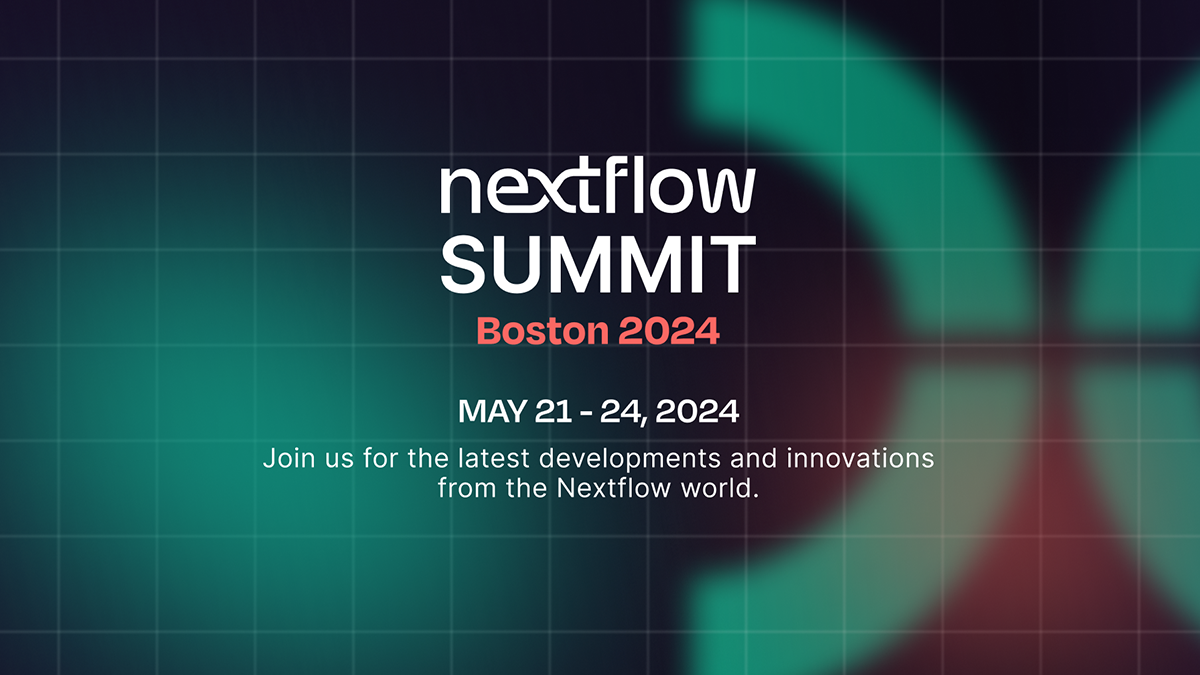
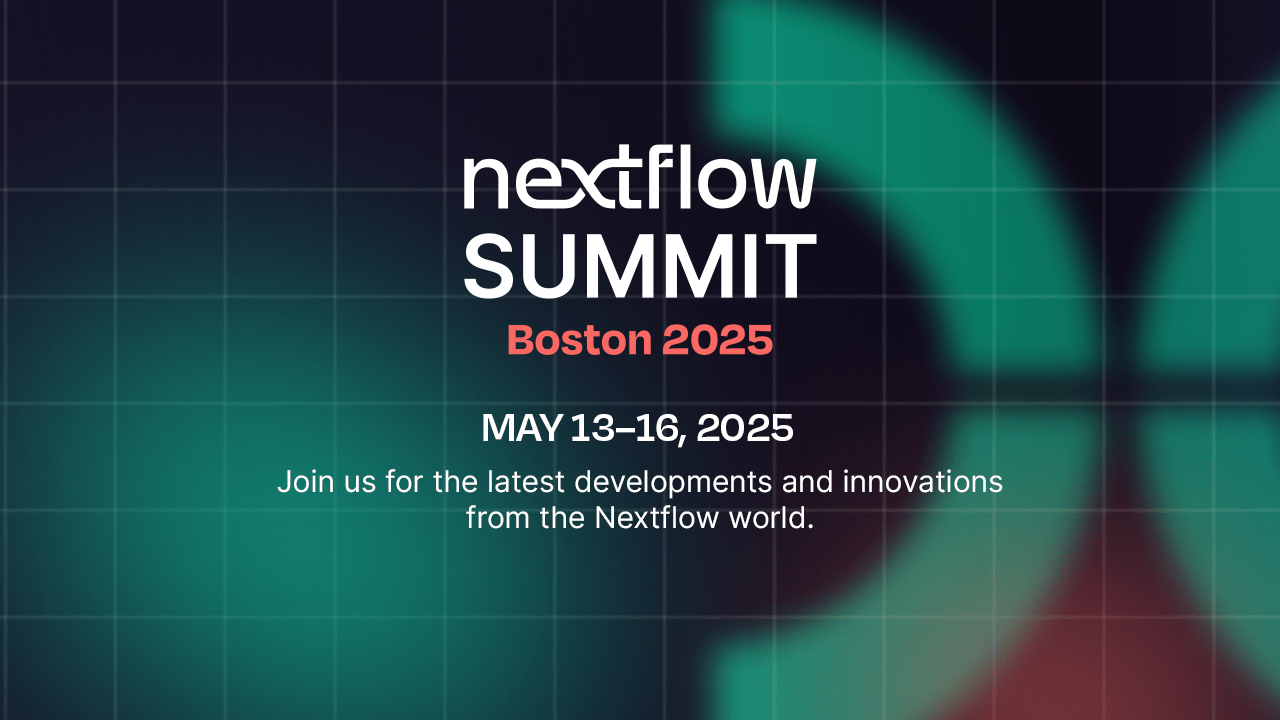
dp-881 update share image for Boston
2025 Boston share image so marketing can begin sharing links to pre-register. Temporarily replace defaultImg with Boston until default image can be updated

diff --git a/src/components/SEO/index.tsx b/src/components/SEO/index.tsx
@@ -1,5 +1,5 @@
-const siteTitle = "Nextflow SUMMIT 2024";
-const descDefault = `Join us at the Nextflow SUMMIT 2024 for the latest developments and innovations from the Nextflow world.`;
+const siteTitle = "Nextflow SUMMIT 2025";
+const descDefault = `Join us at the Nextflow SUMMIT 2025 for the latest developments and innovations from the Nextflow world.`;
 import imgDefault from "./share-default.jpg";
 import imgBoston from "./share-boston.png";
 import imgBarcelona from "./share-barcelona.png";
@@ -37,7 +37,7 @@ const SEO: React.FC<Props> = ({
   } else if (bcn) {
       shareImg = imgBarcelona.src;
   } else {
-      shareImg = imgDefault.src;
+      shareImg = imgBoston.src;
   }
 
   if (dynamicImage) {
